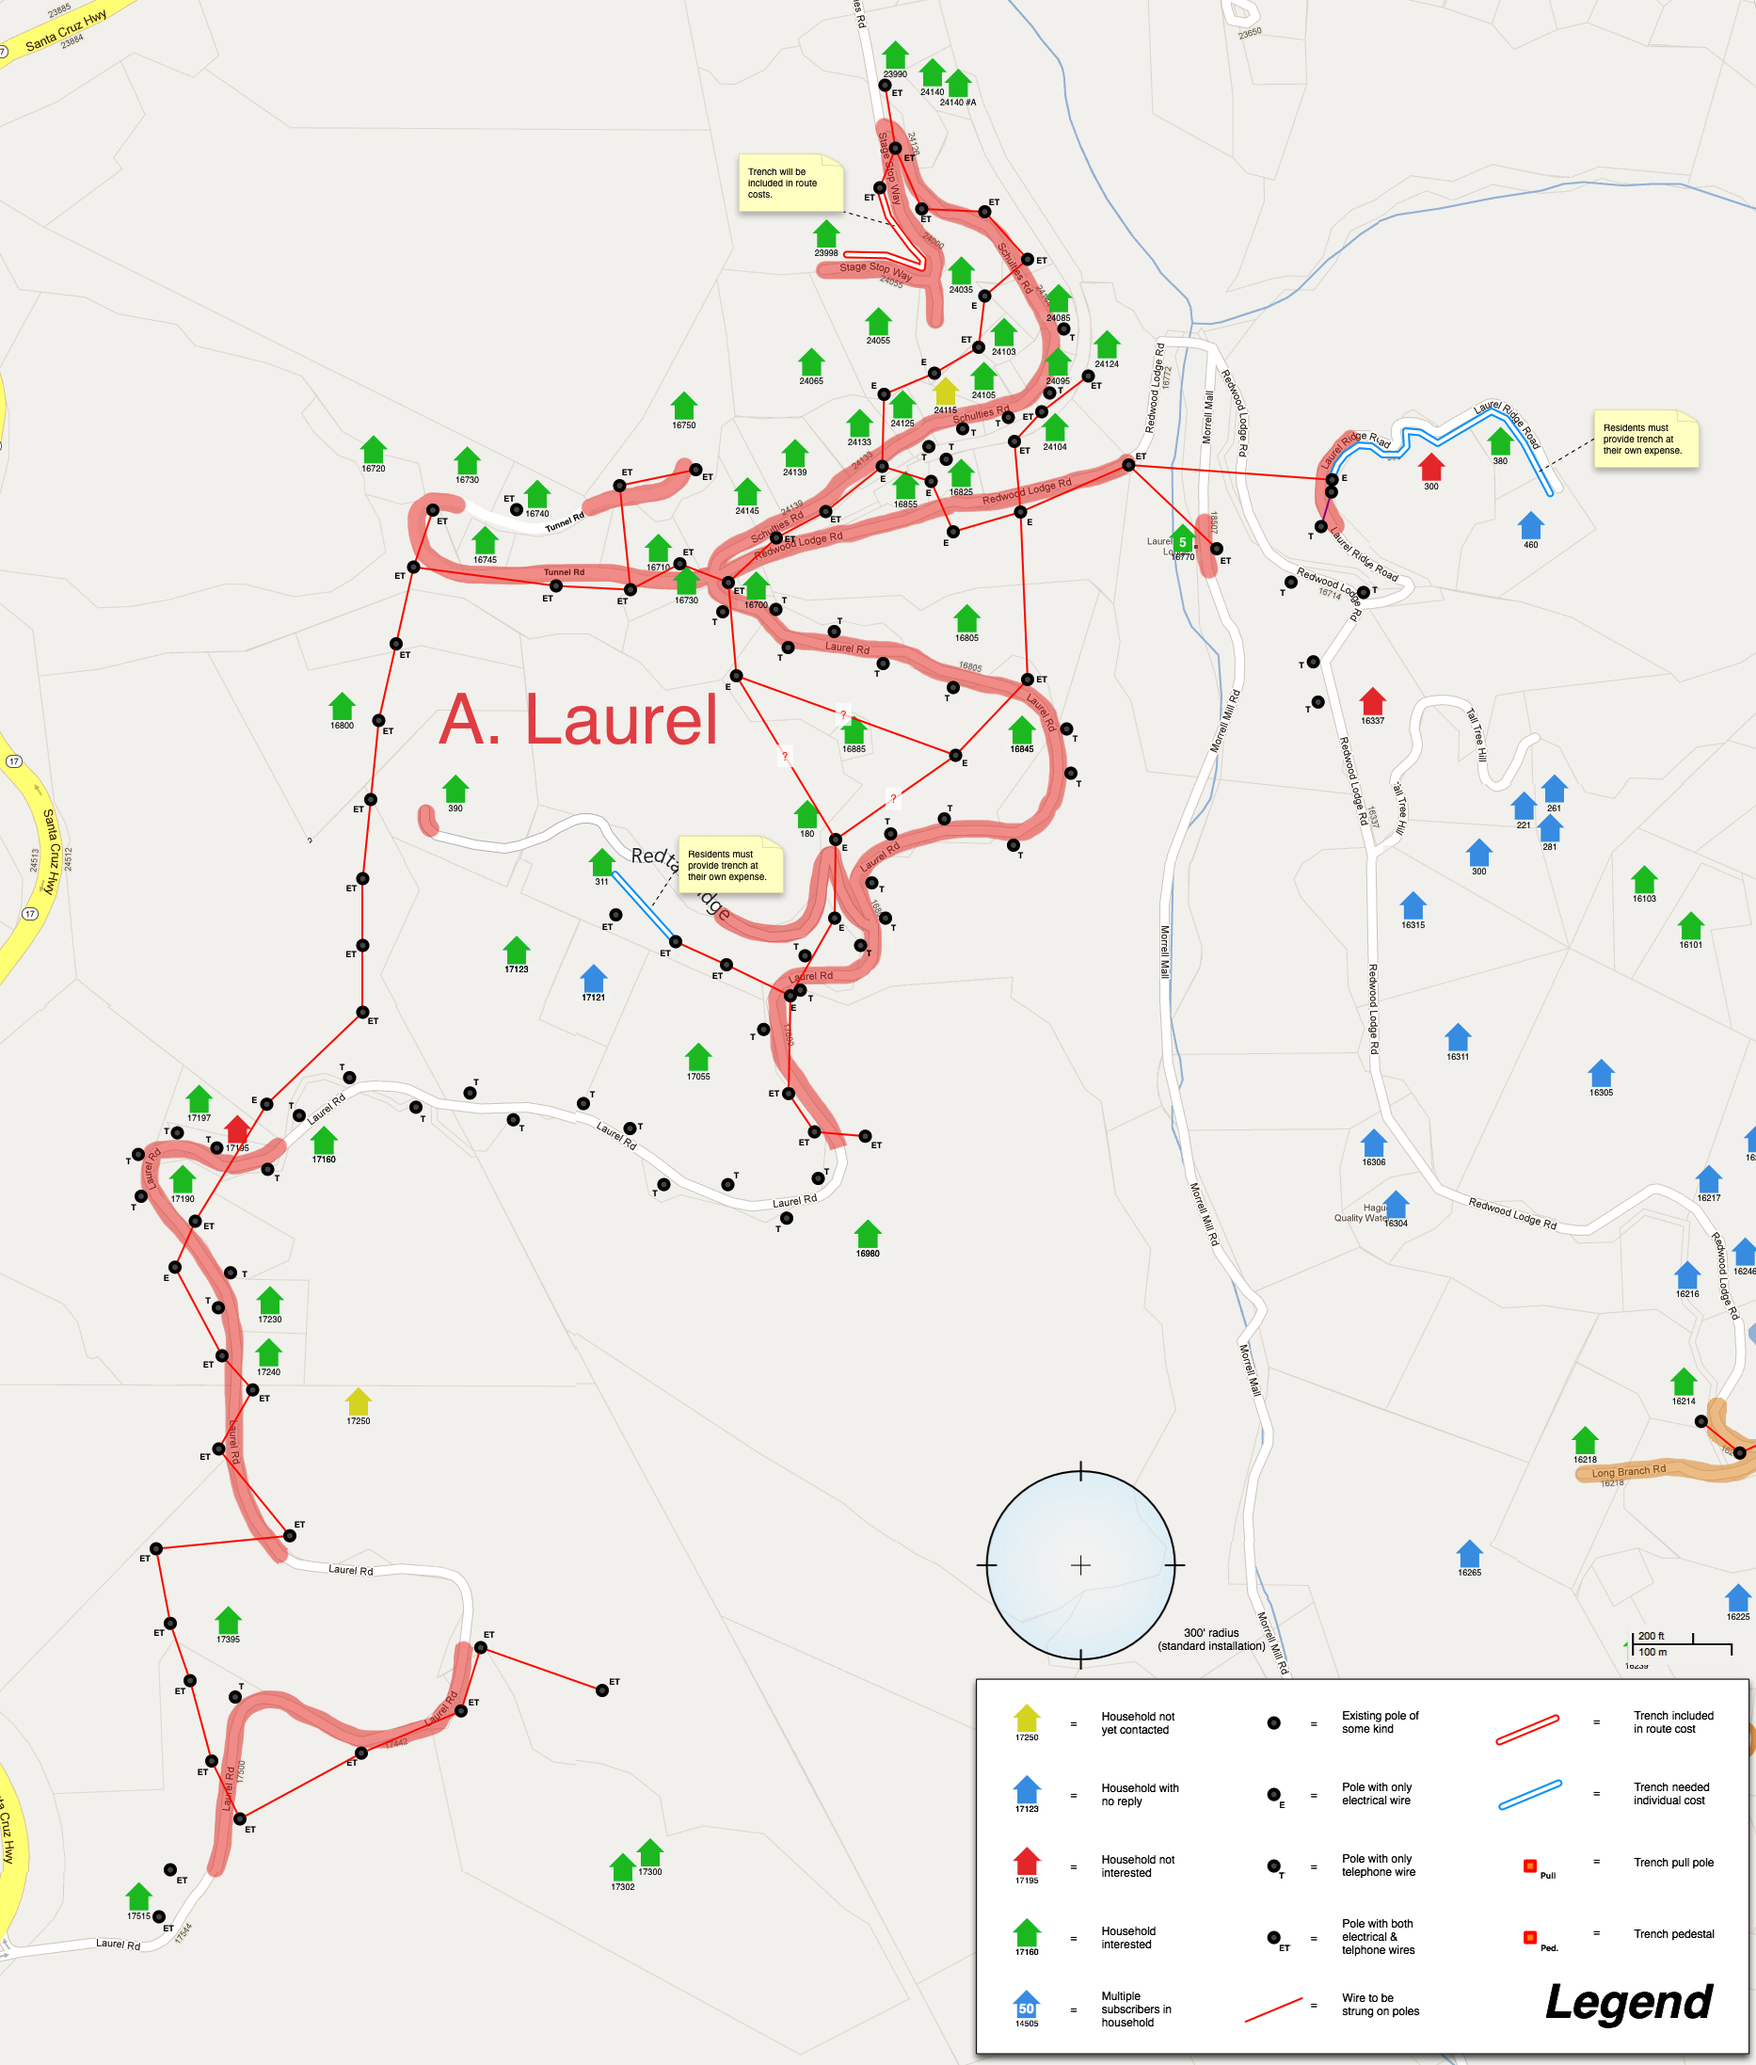
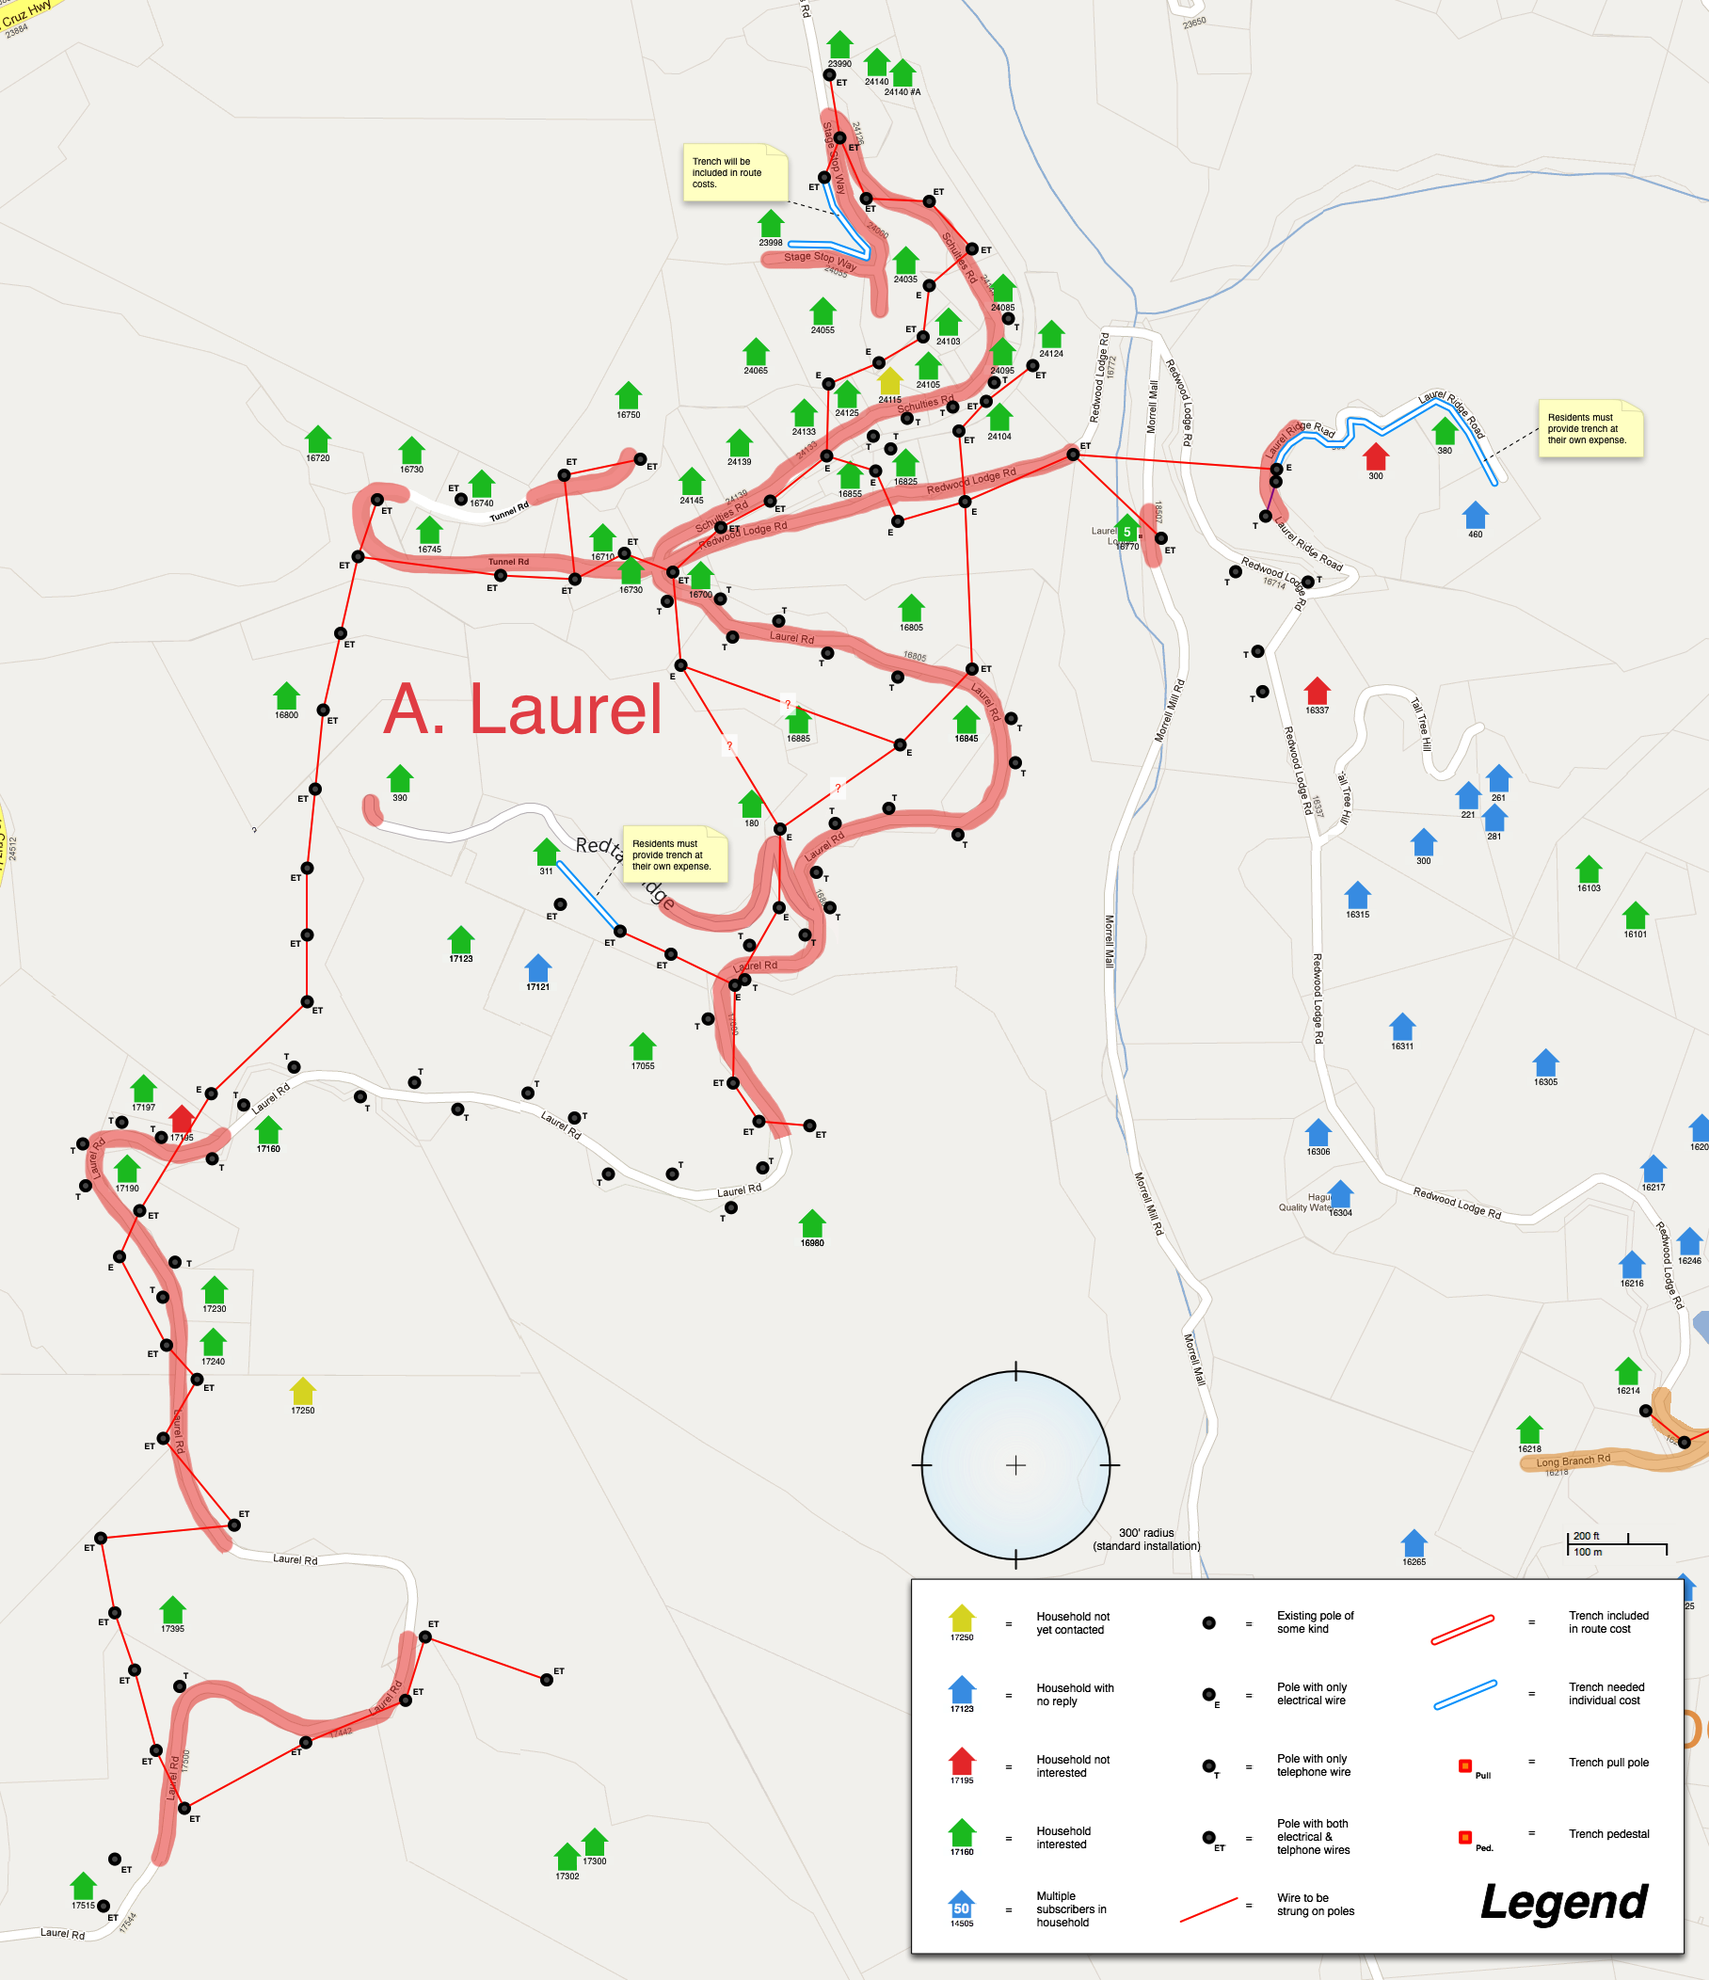
Corrected individuals costs and trench on route A

diff --git a/html/faq.html b/html/faq.html
@@ -18,9 +18,10 @@
                     new Comcast subscriber (everywhere, not just for Phase II) must pay a hookup fee.  The standard
                     hook-up fees for individual homes will be:</p>
                 <ul>
-                    <li>overhead line up to 300': $50</li>
-                    <li>underground conduit up to 300': $50 (Comcast digs the trench)</li>
-                    <li>underground conduit 300' to 500': $50 (owner digs the trench)</li>
+                    <li>overhead line up to 200': $50</li>
+                    <li>underground conduit up to 200': $50 (Comcast digs the trench)</li>
+                    <li>underground conduit 200' to 500': $50 (Comcast digs the trench up to 200', owner digs the
+                        rest)</li>
                     <li>over 500': Comcast will assess individual cases</li>
                 </ul>
                 <p>If you decide to provide your own trench, it must meet Comcast's
